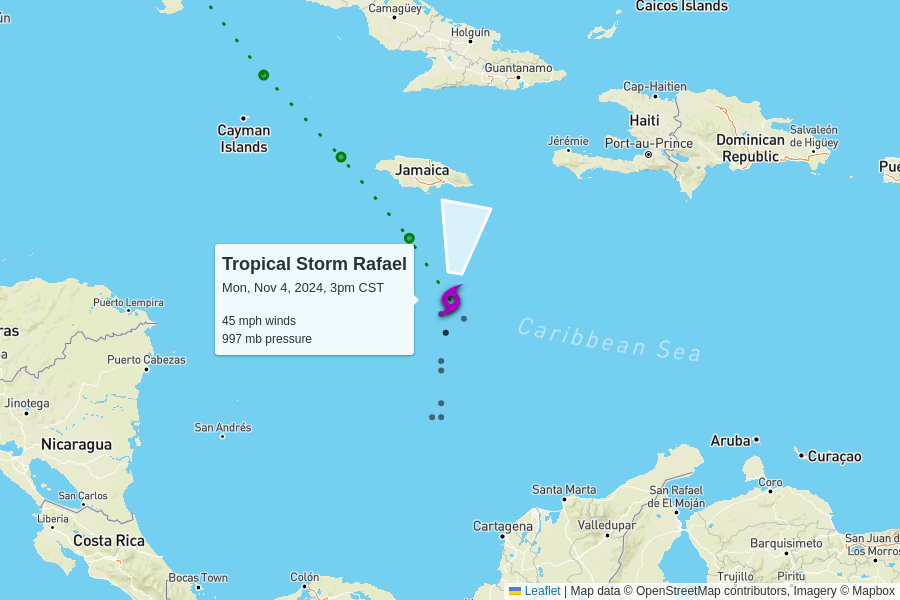
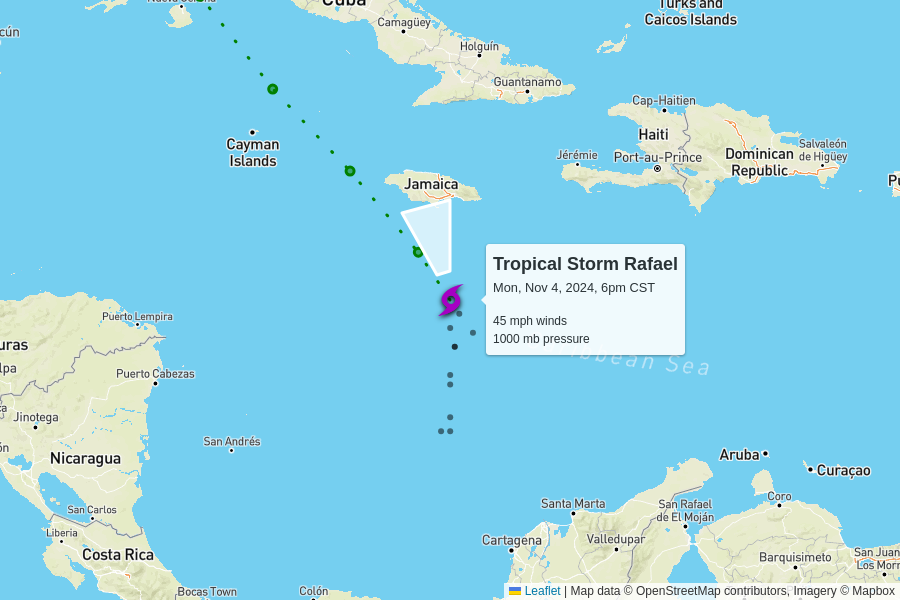
automatic update

diff --git a/docs/index.html b/docs/index.html
@@ -102,7 +102,7 @@
         <td colspan="6" class="storm category-0" >
           <h2>
             Tropical Storm Rafael
-            <p class="updated">last updated <span data-time>2024-11-04T21:00:00.000Z</span></p>
+            <p class="updated">last updated <span data-time>2024-11-05T00:00:00.000Z</span></p>
           </h2>
         </td>
       </tr>
@@ -117,12 +117,12 @@
       </tr>
       <tr>
         <td class="spacer"></td>
-        <td>45 mph<br>+10 mph since last update</td>
-        <td>997 mb<br>-3 mb since last update</td>
+        <td>45 mph<br>0 mph since last update</td>
+        <td>1000 mb<br>+3 mb since last update</td>
         <td>
-          9 mph to the north
+          9 mph to the north-northwest
           <br/>
-          <span style="display: inline-block; font-size: 1.5em; transform: rotate(10deg);">↑</span>
+          <span style="display: inline-block; font-size: 1.5em; transform: rotate(345deg);">↑</span>
         </td>
         <td><a href="https://raw.githubusercontent.com/mgwalker/atlantic-hurricanes/main/data/csv/AL182024.csv">AL182024.csv</a></td>
         <td><a href="https://www.nhc.noaa.gov/archive/2024/RAFAEL.shtml?">NHC advisories</a></td>
